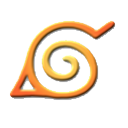
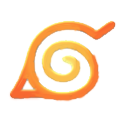
:fish_cake: narutoIcon rm black shadow, drop white shadow

diff --git a/src/components/DrumMachine.js b/src/components/DrumMachine.js
@@ -1033,7 +1033,7 @@ class DrumMachine extends Component {
 					}
           onTouchTap={() => this.toggleNarutoBool()}
         >
-          {narutoBool ? <img src={narutoG} alt="narutoG" /> : <img src={narutoW} alt="narutoW" />}
+          {narutoBool ? <img src={narutoG} className={styles.glow} alt="narutoG" /> : <img src={narutoW} alt="narutoW" />}
         </button>
         <div
           className={

diff --git a/src/styles/DrumMachine.css b/src/styles/DrumMachine.css
@@ -55,6 +55,11 @@
   right: 2em;
 }
 
+.narutoIcon .glow {
+  -webkit-filter: drop-shadow(1px 2px 3.3px rgb(255, 255, 255));
+  filter: drop-shadow(1px 2px 3.3px rgb(255, 255, 255));
+}
+
 .displayHide {
   visibility: hidden;
   opacity: 0;
